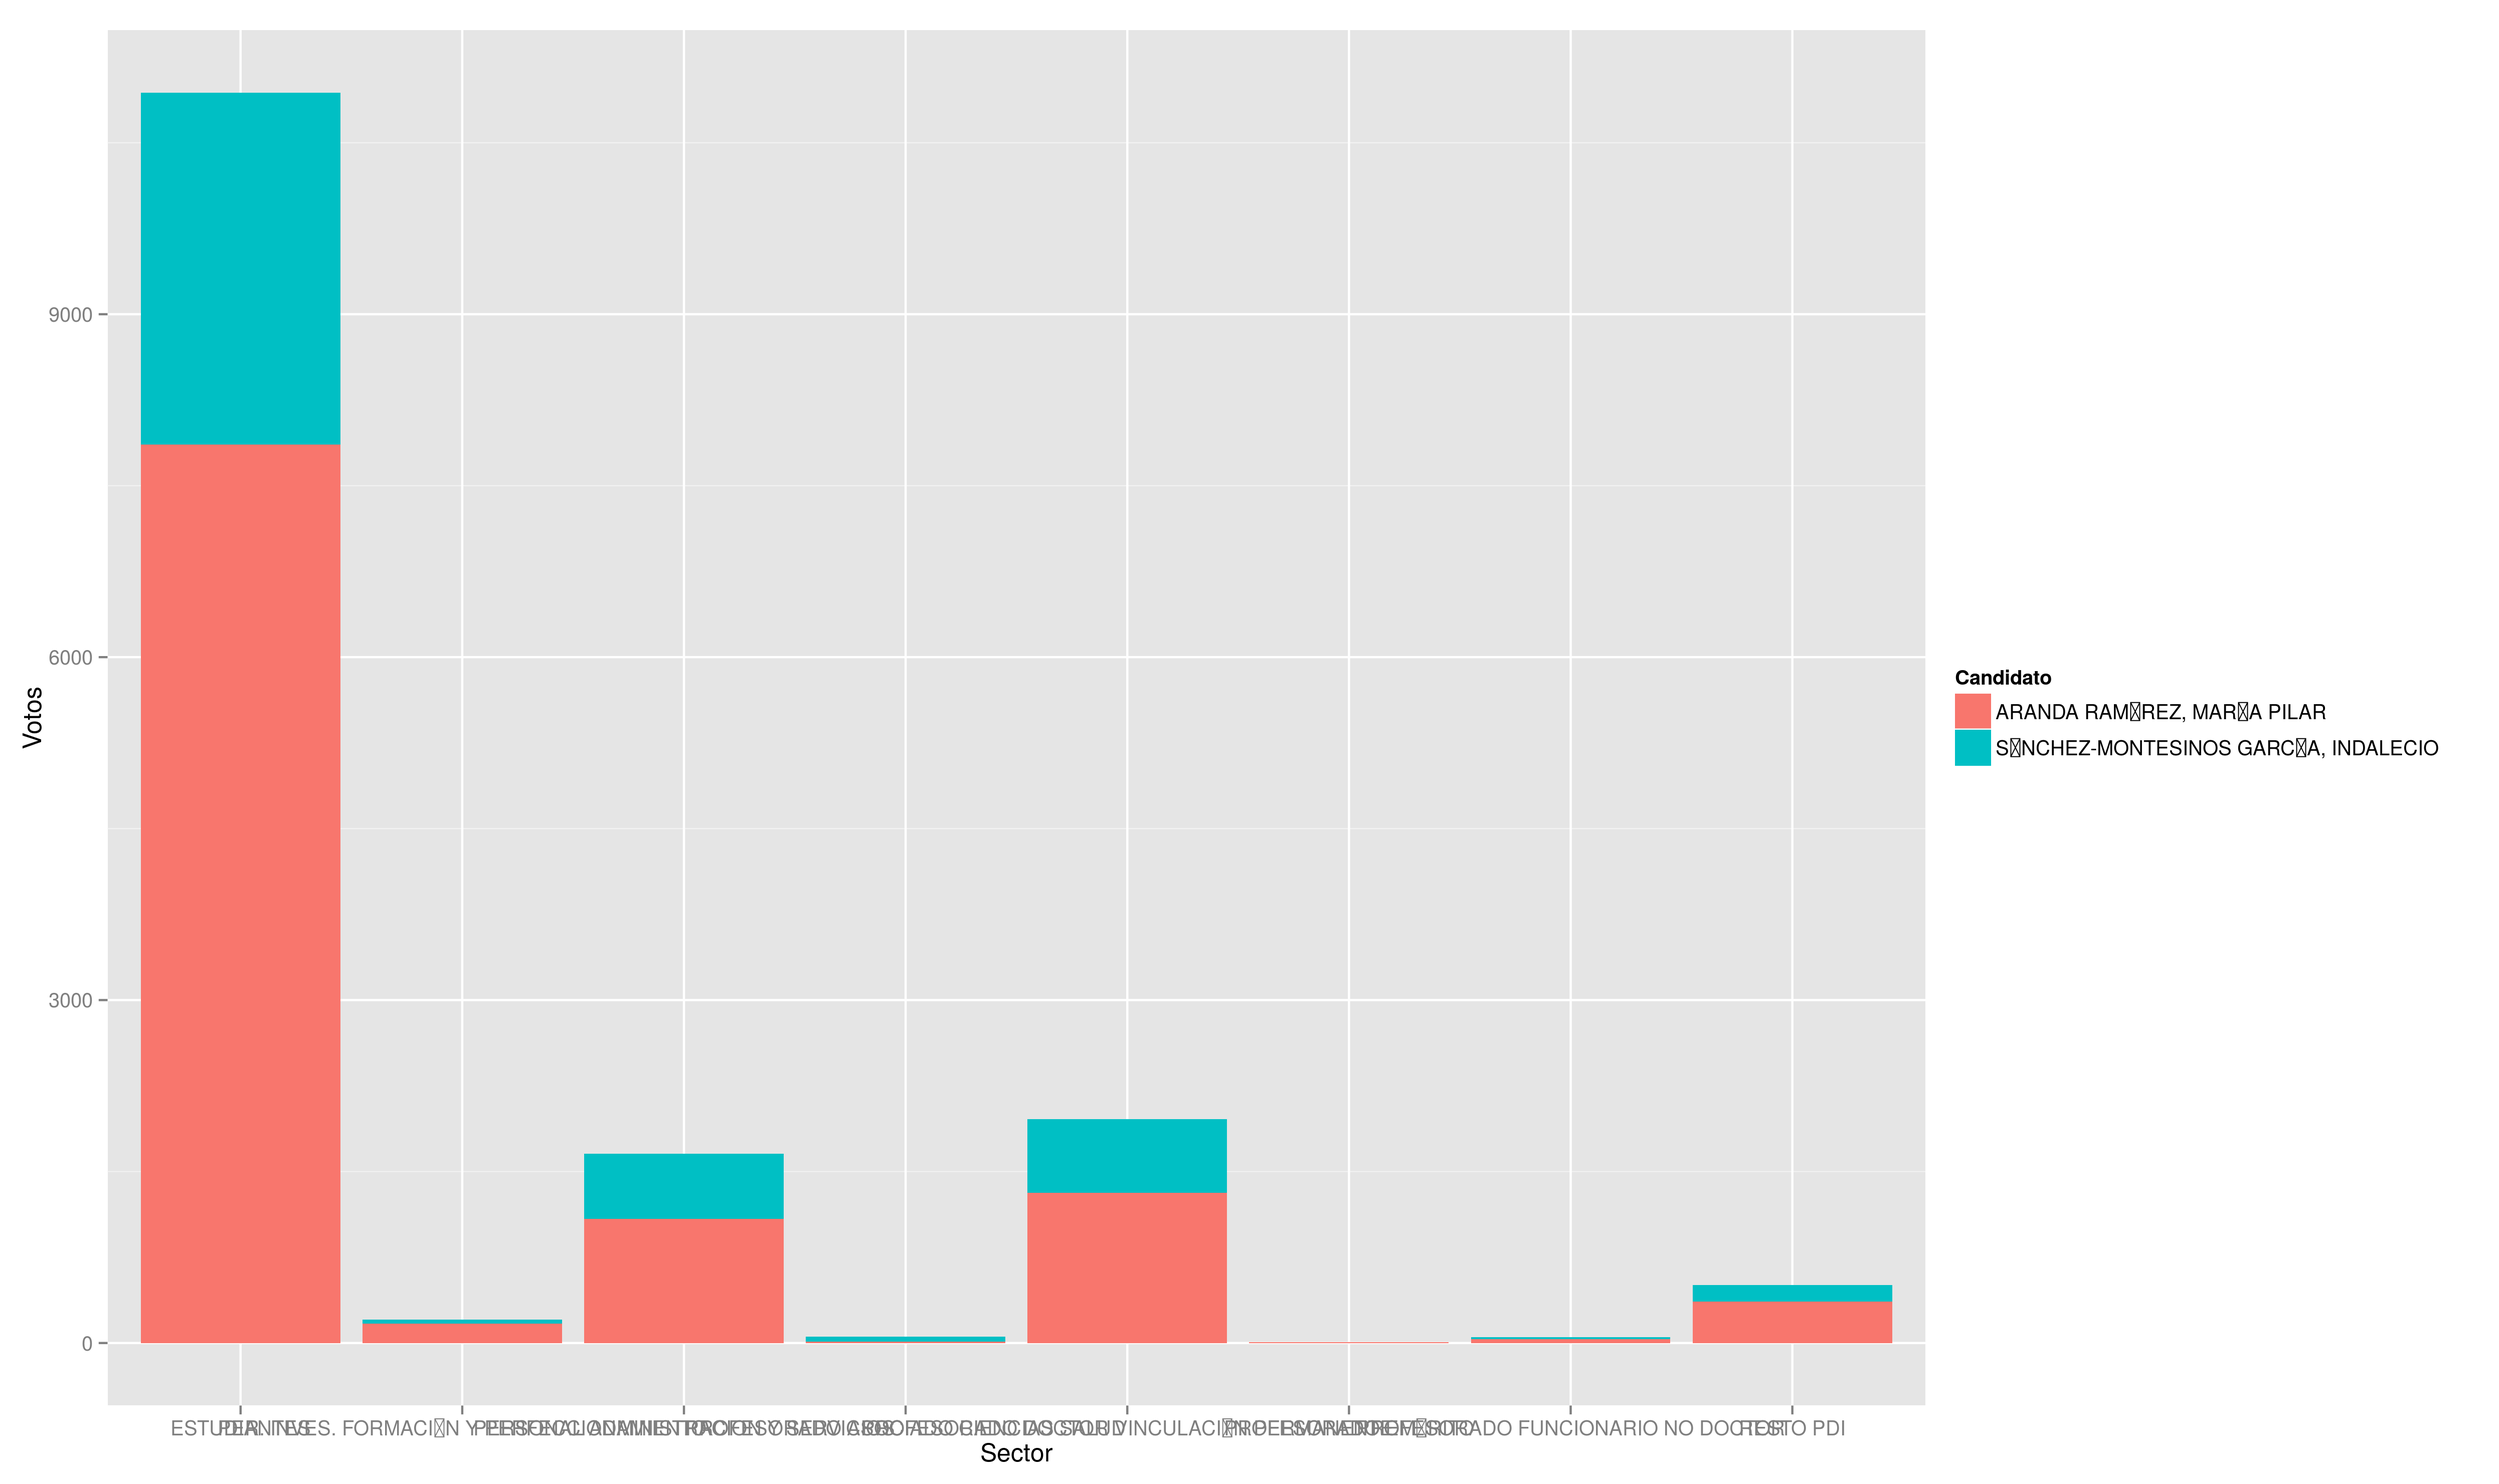
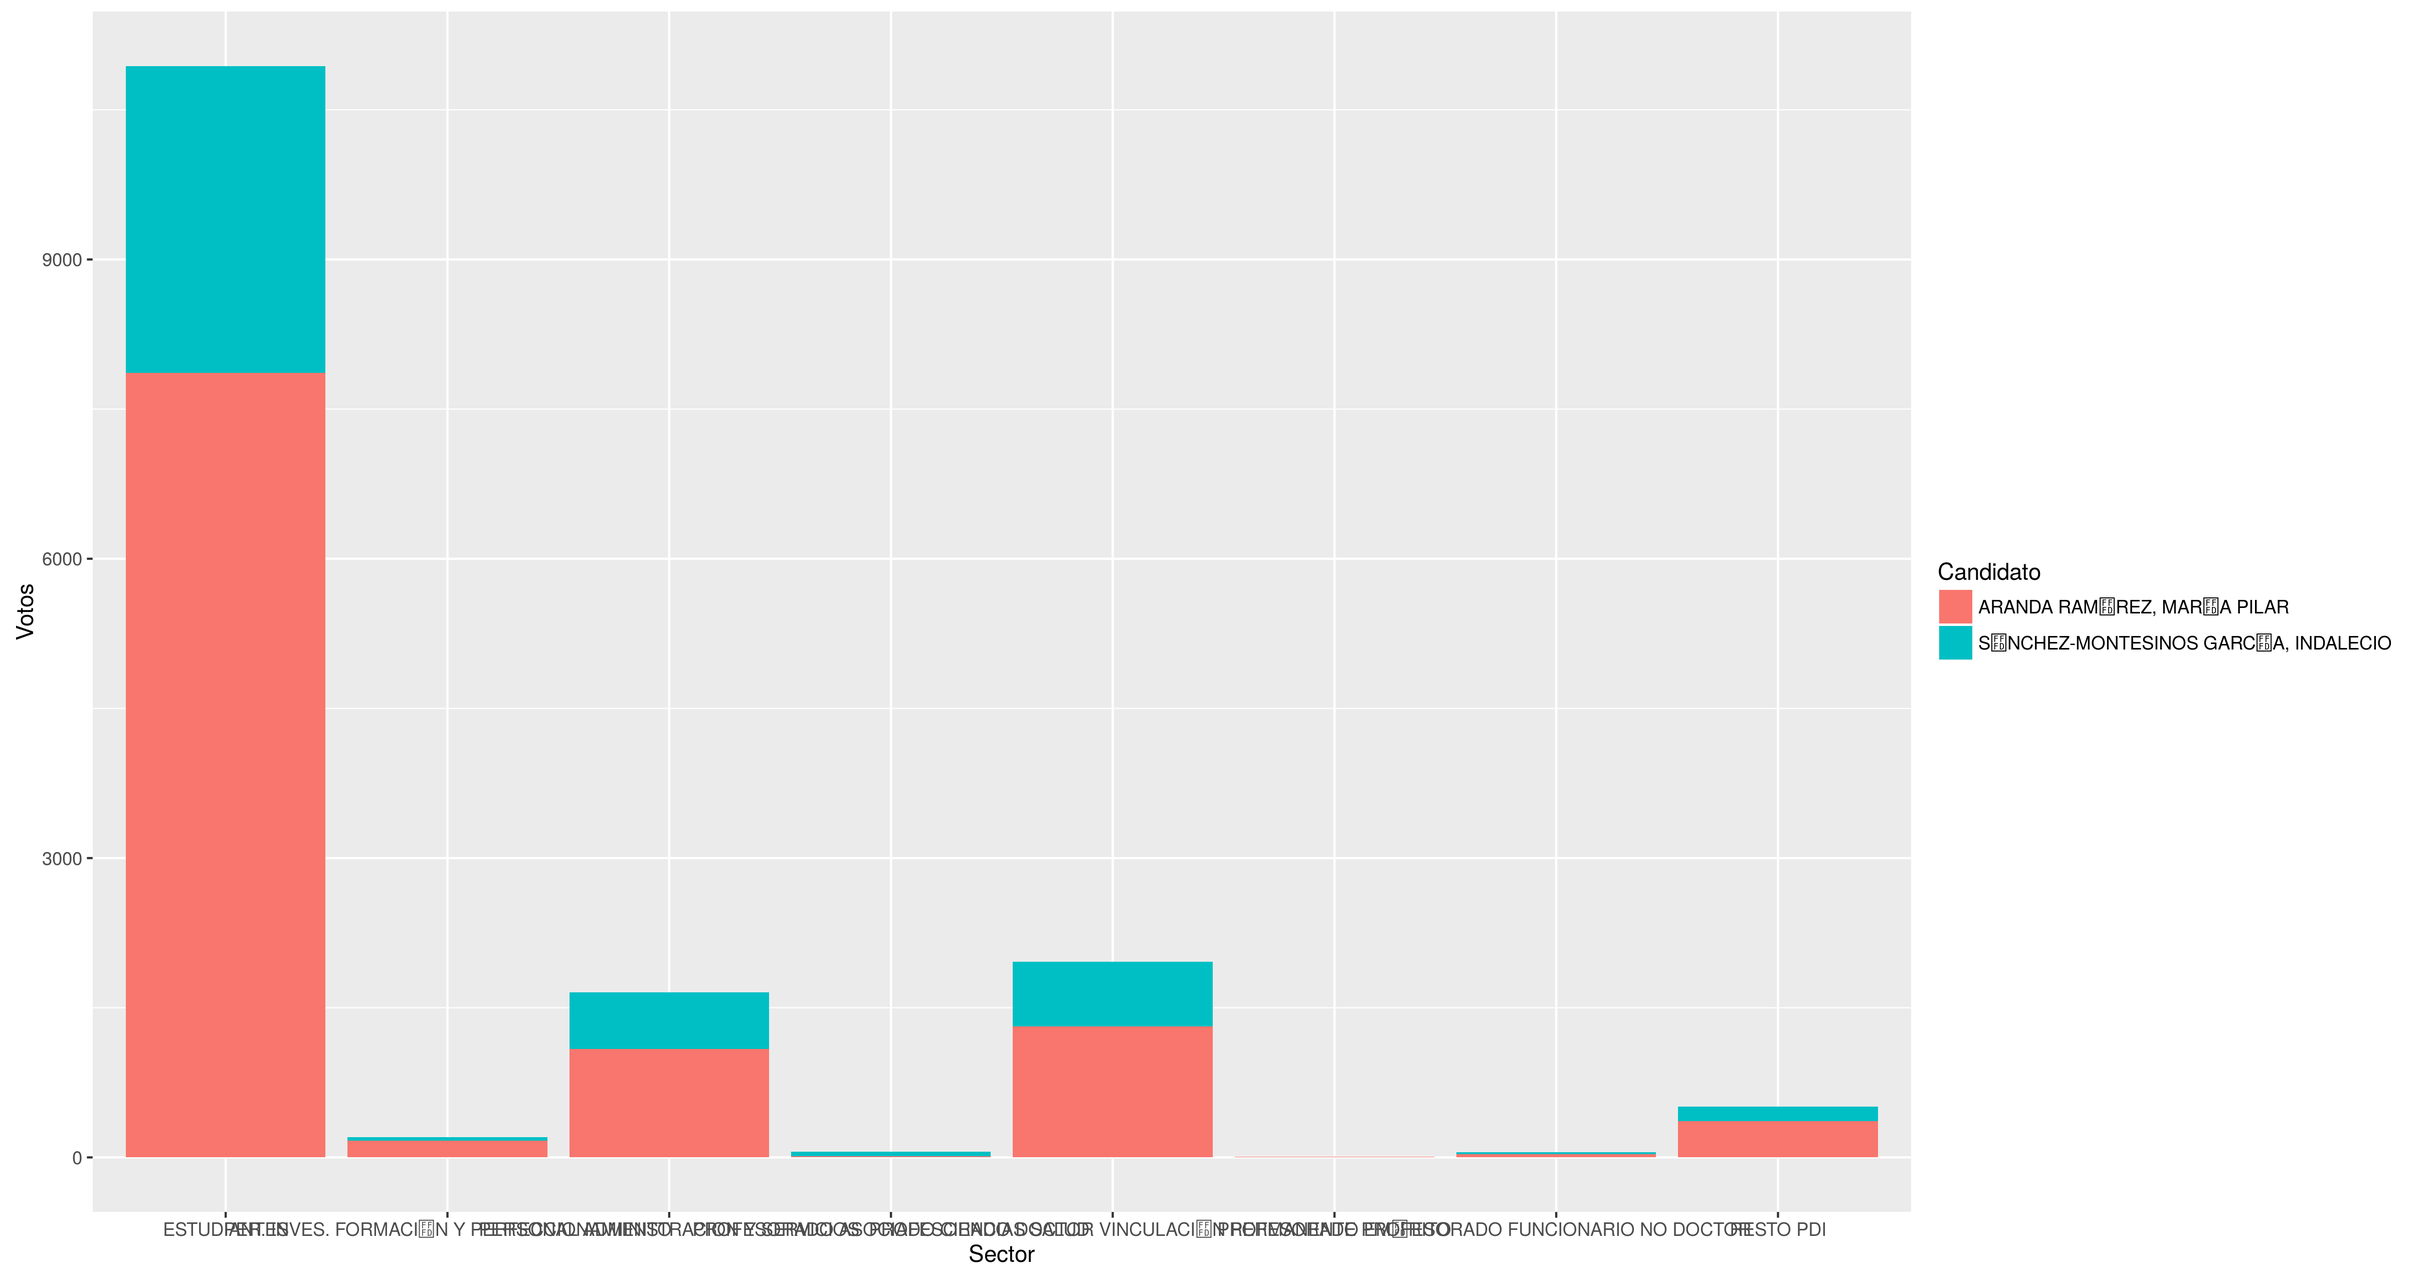
Adaptados los scripts a la nueva versión de ggplot2
Y relanzados los gráficos. qplot simplemente no admite barras
closes #1

diff --git a/index.html b/index.html
@@ -159,10 +159,22 @@ qplot(elecciones$Sector, elecciones$Votos,
 	      Reproducir estos resultados con  eje x el candidato y el sector con el color.</p>
 	  </section>
 
+	  	  <section>
+	    <pre><code>qplot(data=elecciones, x=Sector, y=Votos, shape=Candidato, facets=Candidato~Sector)
+	    </code></pre>
+	    <img src='R/qplot-bar-facets.png' alt='info en facetas'>
+	  </section>
+
 	  <section>
-	    <pre><code>qplot(data=elecciones, x=Sector, y=Votos,
-    geom="bar",stat="identity", fill=Candidato)
-ggsave("qplot-bar.png")</code></pre>
+	    <h1>Ejercicio</h1> 
+	      <p>Reproducir los resultados anteriores usando como eje x el candidato y el sector para la forma.</p>
+	  </section>
+
+	  <section>
+	    <h1>Las barras necesitan <code>ggplot</code></h1>
+	    <pre><code>ggplot(data=elecciones, aes(x=Sector, y=Votos, fill=Candidato))+geom_bar(stat="identity")</code></pre>
+	  </section>
+	  <section>
 	    <img src='R/qplot-bar.png' alt='info en barras'>
 	  </section>
 
@@ -171,17 +183,6 @@ ggsave("qplot-bar.png")</code></pre>
 	      <p>Reproducir los resultados anteriores usando como eje x el candidato y el sector para el relleno.</p>
 	  </section>
 
-	  <section>
-	    <pre><code>qplot(data=elecciones, x=Sector, y=Votos,
-    geom="bar",stat="identity", fill=Candidato, 
-    facets=Candidato~Sector)</code></pre>
-	    <img src='R/qplot-bar-facets.png' alt='info en facetas'>
-	  </section>
-
-	  <section>
-	    <h1>Ejercicio</h1> 
-	      <p>Reproducir los resultados anteriores usando como eje x el candidato y el sector para el relleno.</p>
-	  </section>
 
 	  <section>
 	    <h1>Ejercicio</h1> 
